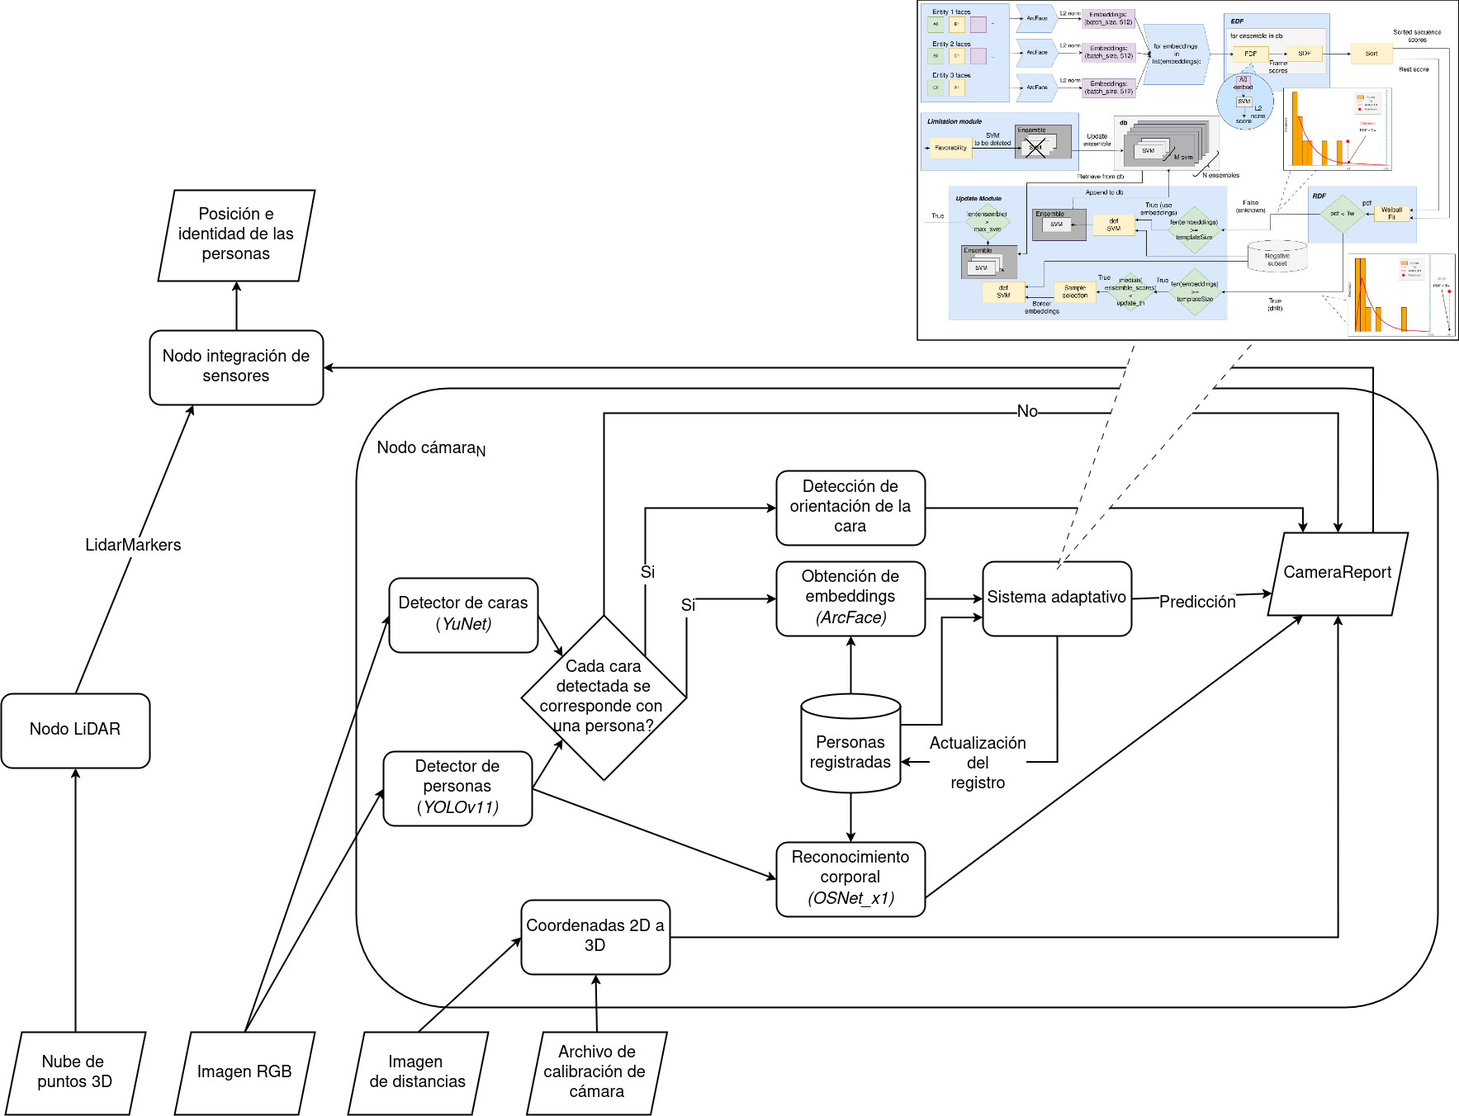
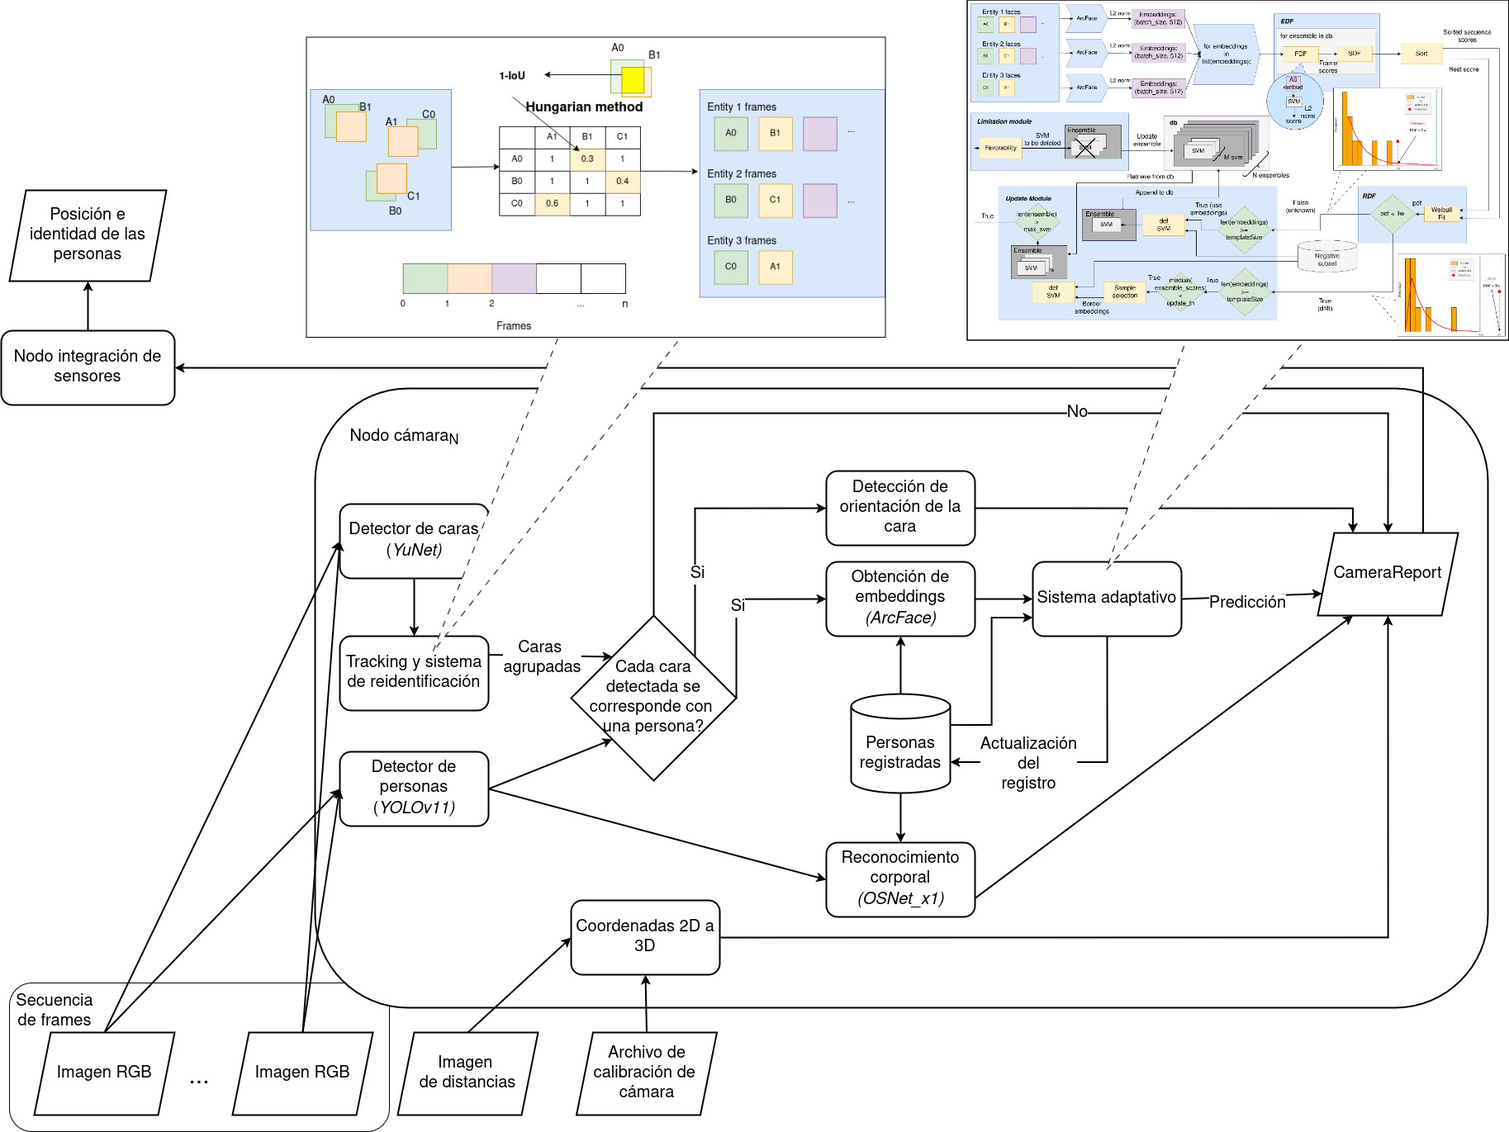
More results

diff --git a/TFM/contenido/8tests.tex b/TFM/contenido/8tests.tex
@@ -46,10 +46,10 @@ TODO: actualización del modelo, añadir nuevas entidades puede corromper la inf
 TODO: los criterios que conforman el módulo de limitación tienen en cuenta el signo de la puntuación de forma exclusiva, lo que puede no funcionar siempre, sobretodo si se dispone de pocos frames que definan al individuo.
 
 \begin{itemize}
-    \item \textbf{Umbral de Weibull (Tw)}: valor que determina si una entidad es desconocida o no. El rango probado es (0.05 0.1 0.25)
-    \item \textbf{Percentil (percent)}: valor del percentil aplicado en la combinación de las puntuaciones generadas por las \acrshort{svm}. El rango probado es (0.25 0.5 0.75)
-    \item \textbf{Número de \acrshort{svm} (max\_svm)}: valor que representa al tamaño máximo de un comité. El rango probado es (1 3 7 10)
-    \item \item \textbf{Número de negativos (nneg)}: tamaño del conjunto de muestras negativas. El rango probado es (10 50)
+    \item \textbf{Umbral de Weibull (\textit{Tw})}: valor que determina si una entidad es desconocida o no. El rango probado es (0.05 0.1 0.25)
+    \item \textbf{Percentil (\textit{percent})}: valor del percentil aplicado en la combinación de las puntuaciones generadas por las \acrshort{svm}. El rango probado es (0.25 0.5 0.75)
+    \item \textbf{Número de \acrshort{svm} (\textit{max\_svm})}: valor que representa al tamaño máximo de un comité. El rango probado es (1 3 7 10)
+    \item \textbf{Número de negativos (\textit{nneg})}: tamaño del conjunto de muestras negativas. El rango probado es (10 50)
     \item \textbf{Tamaño de la plantilla}: establece el número de frames positivos que define a un comité. Se va a partir siempre de un tamaño de 5 frames, el mínimo necesario acorde a \cite{Erik} para definir un nuevo individuo.
     \item \textbf{Tamaño de secuencia}: número de frames que forman una secuencia de video. Se ha fijado el valor en 15 frames, que equivalen a 1,5 segundos de video con cámaras funcionando a 10 Hz.
     \item \textbf{Solapamiento}: establece el salto en el número de frames entre secuencias. Se ha fijado el valor en 5, dando lugar a más secuencias para analizar al coincidir frames entre las mismas.
@@ -70,9 +70,9 @@ En el modo \textit{Open-World}, el sistema crea un nuevo comité cuando se recon
 
 \input{contenido/tables/tests/owparams.tex}
 
-Como en la sección \ref{seq:osparams}, en la tabla \ref{tab:owparams} se muestran los cinco mejores resultados fruto del análisis de parámetros.
+Como en la sección \ref{sec:osparams}, en la tabla \ref{tab:owparams} se muestran los cinco mejores resultados fruto del análisis de parámetros.
 
-Los parámetros \textit{nneg} y \textit{percent} permanecen constantes acorde a las pruebas de la sección \ref{sec:osparams}. A la hora de escoger un valor de umbral de Weibull (\textit{tw}) es necesario tener en cuenta una métrica adicional que es el número de comités que se han generado (se cuentan también los 10 comités iniciales). Un valor alto del umbral implica una reducción en la creación de comités, debido al elevado \textit{recall} y por ende a un menor número de desconocidos y recíprocamente. Al reducir el valor de \textit{tw} se elevan notablemente los comités creados, pasando de 8 a 24 comités sin contar los 10 iniciales, lo que implica un gran salto con apenas una reducción en el valor de \textit{recall}. Este crecimiento puede deberse a la indecisión del sistema de predecir un individuo, ya que al crear nuevos comités de la misma persona, aumenta el riesgo de que más de un comité se active (devuelva un score bajo), por lo que dejan de darse casos extremos, aumentando así el número de desconocidos y por ende de comités creados. En cuanto al parámetro \textit{max\_svm}, los resultados conducen a la misma conclusión que en las pruebas de la sección \ref{seq:osparams}, salvo por el valor de 3 en uno de los resultados, que representa una situación excepcional.
+Los parámetros \textit{nneg} y \textit{percent} permanecen constantes acorde a las pruebas de la sección \ref{sec:osparams}. A la hora de escoger un valor de umbral de Weibull (\textit{tw}) es necesario tener en cuenta una métrica adicional que es el número de comités que se han generado (se cuentan también los 10 comités iniciales). Un valor alto del umbral implica una reducción en la creación de comités, debido al elevado \textit{recall} y por ende a un menor número de desconocidos y recíprocamente. Al reducir el valor de \textit{tw} se elevan notablemente los comités creados, pasando de 8 a 24 comités sin contar los 10 iniciales, lo que implica un gran salto con apenas una reducción en el valor de \textit{recall}. Este crecimiento puede deberse a la indecisión del sistema de predecir un individuo, ya que al crear nuevos comités de la misma persona, aumenta el riesgo de que más de un comité se active (devuelva un score bajo), por lo que dejan de darse casos extremos, aumentando así el número de desconocidos y por ende de comités creados. En cuanto al parámetro \textit{max\_svm}, los resultados conducen a la misma conclusión que en las pruebas de la sección \ref{sec:osparams}, salvo por el valor de 3 en uno de los resultados, que representa una situación excepcional.
 
 \subsection{Umbral de actualización?}
 
@@ -88,9 +88,7 @@ TODO: comentar como el solapamiento puede influir en la creación de nuevas SVM.
 
 \section{Pruebas de inicialización del sistema}
 
-\input{contenido/tables/tests/inittab.tex}
-
-La selección de los frames que conforman un nuevo comité es un factor crítico para el correcto funcionamiento del sistema. En la tabla \ref{tab:inittab} se comparan 3 técnicas de inicialización:
+La selección de los frames que conforman un nuevo comité es un factor crítico para el correcto funcionamiento del sistema. En esta sección se evalúa el sistema en los modos \textit{Open-Set} y \textit{Open-World} aplicando 3 técnicas de inicialización:
 \begin{itemize}
     \item \textbf{Supervisada}: los comités se inicializan con muestras (recortes faciales) seleccionadas de antemano por el operador. Es el modo utilizado en las pruebas de la sección \ref{seq:paramtunning}.
     \item \textbf{Semisupervisada}: se escoge un momento del video en el que aparece un mínimo de personas simultáneamente y se agrupan las muestras por individuo con la información del \gls{dataset}. Para los individuos que no hayan aparecido en ese instante, se inicializan sus comités por medio del método supervisado.
@@ -102,3 +100,29 @@ Para los modos semisupervisado y no supervisado se tiene que cumplir que el inst
     \item Que el ancho del recorte no supere al alto del recorte.
 \end{itemize}
 La situación ideal sería encontrar un instante en el que todas las personas del video aparezcan. Como mínimo para que el sistema se inicialice es necesario que aparezcan 5 entidades, que equivale al número mínimo de puntos necesarios para definir la distribución de Weibull. En el \gls{dataset} de prueba solo aparece un instante de 5 individuos que cumpla con las condiciones anteriores. Por lo tanto, es necesario añadir a la entidad restante a partir de los datos registrados en el caso de la inicialización no supervisada.
+
+\subsection{Modo \textit{Open-Set}}
+
+\input{contenido/tables/tests/osinittab.tex}
+
+En la tabla \ref{tab:osinittab} se muestran los resultados según la inicialización. Se puede apreciar como claramente el modo supervisado es el que mejor funciona, ya que los recortes de caras pudieron ser seleccionados minuciosamente, por lo que es lógico que devuelva el mejor resultado. El modo semisupervisado . Por último, el modo no supervisado refleja el peor rendimiento, en comparación con el modo semisupervisado los comités deberían de ser los mismos, ya que no existen muchos instantes en el video de prueba que reúnan las condiciones requeridas, por lo que el problema podría residir en como el método de tracking realiza el agrupamiento. Por otra parte, la caída en la precisión y la excesiva desviación en las métricas se debe al individuo que se incluye durante la operación del sistema, a diferencia de los anteriores modos, el comité de la persona en cuestión se define en base a unas muestras no seleccionadas de antemano, por lo que los resultados varían dependiendo de la calidad de las muestras que el sistema escoja. También se depende de que el desconocido detectado sea realmente el individuo en cuestión, en caso contrario se crea un comité que se adueña de la identidad del sujeto, agregando así ruido a los reconocimientos. TODO: el umbral de Weibull.
+
+\subsection{Modo \textit{Open-World}}
+
+\input{contenido/tables/tests/owinittab.tex}
+
+En la tabla \ref{tab:owinittab} se muestran los resultados esta vez para \textit{Open-World}. Salvo en el modo no supervisado, se obtienen mejores resultados con un \textit{Tw} de 0.25 respecto a 0.1, esto puede deberse a que el sistema es menos propenso a crear comités que se puedan adueñar de las entidades existentes, por lo tanto se genera una menor confusión y equivocación. TODO: analizar porque el \textit{Tw} da mejor en 0.1. El número de comités aumenta en el modo no supervisado, ya que al contar con muestras de peor calidad (generalmente) la confusión inter-comité aumenta.
+
+\section{Evolución del sistema en el tiempo}
+\subsection{Modo \textit{Open-Set}}
+
+La figura \ref{fig:osevol}
+
+\begin{figure}
+    \centering
+    \includegraphics[width=1\linewidth]{imagenes/figaro.png}
+    \caption{Diagrama con datos de ejemplo.}
+    \label{fig:osevol}
+\end{figure}
+
+\subsection{Modo \textit{Open-World}}

diff --git a/TFM/contenido/tables/tests/inittab.tex b/TFM/contenido/tables/tests/inittab.tex
@@ -1,12 +1,16 @@
-\begin{table}[]
-    \begin{tabular}{l|ll|ll}
-        \hline
-        \textit{}          & \multicolumn{2}{c|}{\textit{Non supervised}} & \multicolumn{2}{c}{\textit{Supervised}}                                              \\ \hline
-                           & \multicolumn{1}{l|}{Open-Set}                & Open-World                              & \multicolumn{1}{l|}{Open-Set} & Open-World \\ \hline
-        \textit{Precision} &                                              &                                         & {\color[HTML]{000000} }       &            \\
-        \textit{Recall}    &                                              &                                         &                               &            \\
-        \textit{F1\_score} &                                              &                                         &                               &            \\ \hline
-    \end{tabular}
+\begin{landscape}
+    \begin{table}[]
+        \begin{tabular}{l|llll|llll|llll}
+            \hline
+            \textit{}                                                              & \multicolumn{4}{c|}{\textit{Supervised}} & \multicolumn{4}{c|}{\textit{Semisupervised}} & \multicolumn{4}{c}{\textit{Non supervised}}                                                                                                                                                                                                                                                                                                                        \\ \cline{2-13}
+                                                                                   & \multicolumn{2}{c|}{\textit{Open-Set}}   & \multicolumn{2}{c|}{\textit{Open-World}}     & \multicolumn{2}{c|}{\textit{Open-Set}}      & \multicolumn{2}{c|}{\textit{Open-World}}              & \multicolumn{2}{c|}{\textit{Open-Set}} & \multicolumn{2}{c}{\textit{Open-World}}                                                                                                                                                                             \\ \hline
+            \textit{Tw}                                                            & \multicolumn{1}{c|}{0.25}                & \multicolumn{1}{c|}{0.1}                     & \multicolumn{1}{c|}{0.25}                   & \multicolumn{1}{c|}{0.1}                              & \multicolumn{1}{c|}{0.25}              & \multicolumn{1}{c|}{0.1}                & \multicolumn{1}{c|}{0.25} & \multicolumn{1}{c|}{0.1} & \multicolumn{1}{c|}{0.25} & \multicolumn{1}{c|}{0.1}         & \multicolumn{1}{c|}{0.25} & \multicolumn{1}{c}{0.1} \\ \hline
+            \textit{Precision}                                                     & 79.1 ± 1.15                              & \multicolumn{1}{l|}{79.6 ± 3.2}              & 66 ± 3.95                                   & \begin{tabular}[c]{@{}l@{}}55.2 ±\\ 3.39\end{tabular} & 68.3 ± 1.89                            & \multicolumn{1}{l|}{72.9 ± 2.84}        & 45.4 ± 1.96               & 40.4 ± 6.84              & 48.5 ± 8.9                & \multicolumn{1}{l|}{64.6 ± 9.77} & 26.8 ± 6.66               & 30.6 ± 6.62             \\
+            \textit{Recall}                                                        & 95.1 ± 1.34                              & \multicolumn{1}{l|}{89.6 ±1.72}              & 95.8 ± 0.82                                 & 90 ± 1.89                                             & 83.9 ± 2.66                            & \multicolumn{1}{l|}{78.2 ± 1.02}        & 93.2 ± 1.2                & 87.0 ± 3.51              & 80.1 ± 2.3                & \multicolumn{1}{l|}{75.5± 3.51}  & 88.6 ± 2.63               & 79.1 ± 10.22            \\
+            \textit{F1\_score}                                                     & 86.3 ± 0.92                              & \multicolumn{1}{l|}{84.2 ± 2.22}             & 78.1 ± 2.9                                  & 68.4 ± 3.09                                           & 75.2 ± 0.7                             & \multicolumn{1}{l|}{75.5 ± 1.58}        & 61.1 ± 1.71               & 55 ± 7.01                & 60.1 ± 7.04               & \multicolumn{1}{l|}{69.3 ± 7.45} & 40.8 ± 7.78               & 44 ± 8.35               \\
+            \textit{\begin{tabular}[c]{@{}l@{}}Number of\\ ensembles\end{tabular}} &                                          & \multicolumn{1}{l|}{}                        & 19.4 ± 2.24                                 & 32 ± 3                                                &                                        & \multicolumn{1}{l|}{}                   & 25 ± 2                    & 33 ± 4                   &                           & \multicolumn{1}{l|}{}            & 24 ± 1                    & 45 ± 17                 \\ \hline
+        \end{tabular}
+    \end{table}
     \captionof{table}{Resultados según la inicialización del sistema}
     \label{tab:inittab}
-\end{table}
+\end{landscape}

diff --git a/TFM/contenido/tables/tests/owinittab.tex b/TFM/contenido/tables/tests/owinittab.tex
@@ -1,0 +1,13 @@
+\begin{table}[]
+    \begin{tabular}{l|ll|ll|ll}
+        \hline
+        \textit{}                                                              & \multicolumn{2}{c|}{\textit{Supervised}} & \multicolumn{2}{c|}{\textit{Semisupervised}}        & \multicolumn{2}{c}{\textit{Non supervised}}                                                                                  \\ \hline
+        \textit{Tw}                                                            & \multicolumn{1}{c|}{0.25}                & \multicolumn{1}{c|}{0.1}                            & \multicolumn{1}{c|}{0.25}                   & \multicolumn{1}{c|}{0.1} & \multicolumn{1}{c|}{0.25} & \multicolumn{1}{c}{0.1} \\ \hline
+        \textit{Precision}                                                     & 66 ± 3.95                                & \begin{tabular}[c]{@{}l@{}}55.2 ± 3.39\end{tabular} & 45.4 ± 1.96                                 & 40.4 ± 6.84              & 26.8 ± 6.66               & 30.6 ± 6.62             \\
+        \textit{Recall}                                                        & 95.8 ± 0.82                              & 90 ± 1.89                                           & 93.2 ± 1.2                                  & 87.0 ± 3.51              & 88.6 ± 2.63               & 79.1 ± 10.22            \\
+        \textit{F1\_score}                                                     & 78.1 ± 2.9                               & 68.4 ± 3.09                                         & 61.1 ± 1.71                                 & 55 ± 7.01                & 40.8 ± 7.78               & 44 ± 8.35               \\
+        \textit{\begin{tabular}[c]{@{}l@{}}Number of\\ ensembles\end{tabular}} & 19 ± 2                                   & 32 ± 3                                              & 25 ± 2                                      & 33 ± 4                   & 24 ± 1                    & 45 ± 17                 \\ \hline
+    \end{tabular}
+\end{table}
+\captionof{table}{Resultados según la inicialización del sistema en el modo \textit{Open-World}}
+\label{tab:owinittab}

diff --git a/TFM/contenido/6impl.tex b/TFM/contenido/6impl.tex
@@ -117,9 +117,7 @@ Cuando se fusionan los resultados procesados por los distintos sensores, se requ
 Con el motivo del fin de soporte de ROS 1 \cite{ROSEOL}, se ha optado por migrar el sistema para ser ejecutado en ROS 2 con el fin de mantener su continuidad. La documentación oficial de \acrshort{ros} proporciona una guía de migración \cite{ros2tuto}. Se han migrado los nodos cámara e integrador, la migración del nodo \acrshort{lidar} requeriría actualizar el código a una versión soportada para Ubuntu 22.04 de la librería pcl, entre otros detalles que llevarían a rediseñar casi todo el código. Por último, el sensor \acrshort{lidar} instalado no es compatible con \acrshort{ros} 2, lo que impide la migración a menos que se haga un recambio.  TODO: Se probaron diferentes alternativas como RoboStack.
 
 \subsection{Procesamiento de videos}
-\label{chap:video}
-\lettrine{E}{n} este capítulo se comenta todo el trabajo relacionado con la extracción de caras en secuencias de video.
-
+\label{sec:video}
 El sistema actual trabaja a nivel de frame \cite{andrew}, es decir, devuelve reconocimientos de los individuos presentes en un frame. Esta aproximación permite trabajar a altas frecuencias, sin embargo, las predicciones dependen enteramente de la calidad del frame (ejemplo: nivel de borrosidad). En este proyecto se ha optado por trabajar con \textbf{secuencias de video}, de esta forma, se devuelve un reconocimiento más robusto. Simplemente consiste en procesar un conjunto de frames en un intervalo de tiempo, dicho intervalo de tiempo es ajustable según las necesidades del operador (ejemplo: intervalo de 1 segundo). De los frames del intervalo, se extraen los rostros presentes a partir de un modelo de detección de caras (en este caso YuNet) y se agrupan por cada individuo a lo largo del intervalo, de modo que los frames que no contienen caras \textbf{se descartan}.
 
 \subsubsection{Seguimiento de caras}

diff --git a/TFM/contenido/2tech.tex b/TFM/contenido/2tech.tex
@@ -136,7 +136,7 @@ Para las pruebas se emplearon dos equipos con las siguientes características:
 \subsection{ROS}
 \acrfull{ros} es un middleware de \textbf{código abierto} que incorpora las herramientas necesarias para la interacción y desarrollo de software en robots. Cuenta con una amplia biblioteca de distribuciones y librerías. TODO
 \subsection{Rosbag}
-Es una herramienta del ecosistema \arcshort{ros} que graba y reproduce los datos capturados de la ejecución de un sistema \acrshort{ros} en un momento concreto en el tiempo. Los \glspl{dataset} creados en \cite{andrew} se construyeron partiendo de un fichero rosbag, que contiene toda la información generada por los diferentes sensores. En este proyecto se emplearán dichos ficheros rosbag para reproducir las pruebas en tiempo real.
+Es una herramienta del ecosistema \acrshort{ros} que graba y reproduce los datos capturados de la ejecución de un sistema \acrshort{ros} en un momento concreto en el tiempo. Los \glspl{dataset} creados en \cite{andrew} se construyeron partiendo de un fichero rosbag, que contiene toda la información generada por los diferentes sensores. En este proyecto se emplearán dichos ficheros rosbag para reproducir las pruebas en tiempo real.
 
 \subsection{TensorRT}
 Es un software de \textbf{código abierto} desarrollado por NVIDIA para la optimización de inferencias de modelos de IA en aceleradoras de NVIDIA \cite{x36}. Permite ejecutar modelos entrenados en frameworks como Pytorch y TensorFlow, aunque se aconseja exportarlos al formato \acrfull{onnx} previamente, para aprovechar al completo las funcionalidades de este software. Se ha empleado TensorRT para optimizar la mayoría de modelos CNN tanto en equipos ARM (Jetson) como x86 (Intel).

diff --git a/TFM/contenido/tables/tests/osinittab.tex b/TFM/contenido/tables/tests/osinittab.tex
@@ -1,0 +1,12 @@
+\begin{table}[]
+    \begin{tabular}{l|ll|ll|ll}
+        \hline
+        \textit{}          & \multicolumn{2}{c|}{\textit{Supervised}} & \multicolumn{2}{c|}{\textit{Semisupervised}} & \multicolumn{2}{c}{\textit{Non supervised}}                                                                                  \\ \hline
+        \textit{Tw}        & \multicolumn{1}{c|}{0.25}                & \multicolumn{1}{c|}{0.1}                     & \multicolumn{1}{c|}{0.25}                   & \multicolumn{1}{c|}{0.1} & \multicolumn{1}{c|}{0.25} & \multicolumn{1}{c}{0.1} \\ \hline
+        \textit{Precision} & 79.1 ± 1.15                              & 79.6 ± 3.2                                   & 68.3 ± 1.89                                 & 72.9 ± 2.84              & 48.5 ± 8.9                & 64.6 ± 9.77             \\
+        \textit{Recall}    & 95.1 ± 1.34                              & 89.6 ±1.72                                   & 83.9 ± 2.66                                 & 78.2 ± 1.02              & 80.1 ± 2.3                & 75.5± 3.51              \\
+        \textit{F1\_score} & 86.3 ± 0.92                              & 84.2 ± 2.22                                  & 75.2 ± 0.7                                  & 75.5 ± 1.58              & 60.1 ± 7.04               & 69.3 ± 7.45             \\ \hline
+    \end{tabular}
+\end{table}
+\captionof{table}{Resultados según la inicialización del sistema en el modo \textit{Open-Set}}
+\label{tab:osinittab}

diff --git a/TFM/contenido/3teoria.tex b/TFM/contenido/3teoria.tex
@@ -1,7 +1,7 @@
 \chapter{Fundamentos teóricos}
 \lettrine{E}{n} este capítulo se detallan las métricas de evaluación y herramientas hardware y software utilizadas, así como los conceptos necesarios para comprender el resto de la memoria.
 
-\section{TODO: Métricas de evaluación}
+\section{Métricas de evaluación}
 \label{sec:metriks}
 
 Para evaluar la clasificación de los modelos de visión artificial utilizados, se emplearon los siguientes componentes cuyo significado se expone a continuación:
@@ -14,7 +14,7 @@ Para evaluar la clasificación de los modelos de visión artificial utilizados, 
 
 Estos componentes se aplicarán a los datasets de prueba formados a partir de los videos grabados. En un entorno real de operación no sería posible aplicar dichas métricas por falta de un \textit{\gls{gt}}. %\textit{ground truth}.
 
-\section{TODO: Evaluación de modelos}
+\section{Evaluación de modelos}
 \label{sec:modeleval}
 
 Las pruebas empleadas para evaluar los modelos de detección y reconocimiento son las mismas que en \cite{andrew}. Teniendo en cuenta que ahora se considera el desconocido como entidad posible, en las pruebas de reconocimiento se añaden las métricas de \textit{recall} y \textit{F1\_score} al tener falsos negativos (FN) y positivos (FP).
